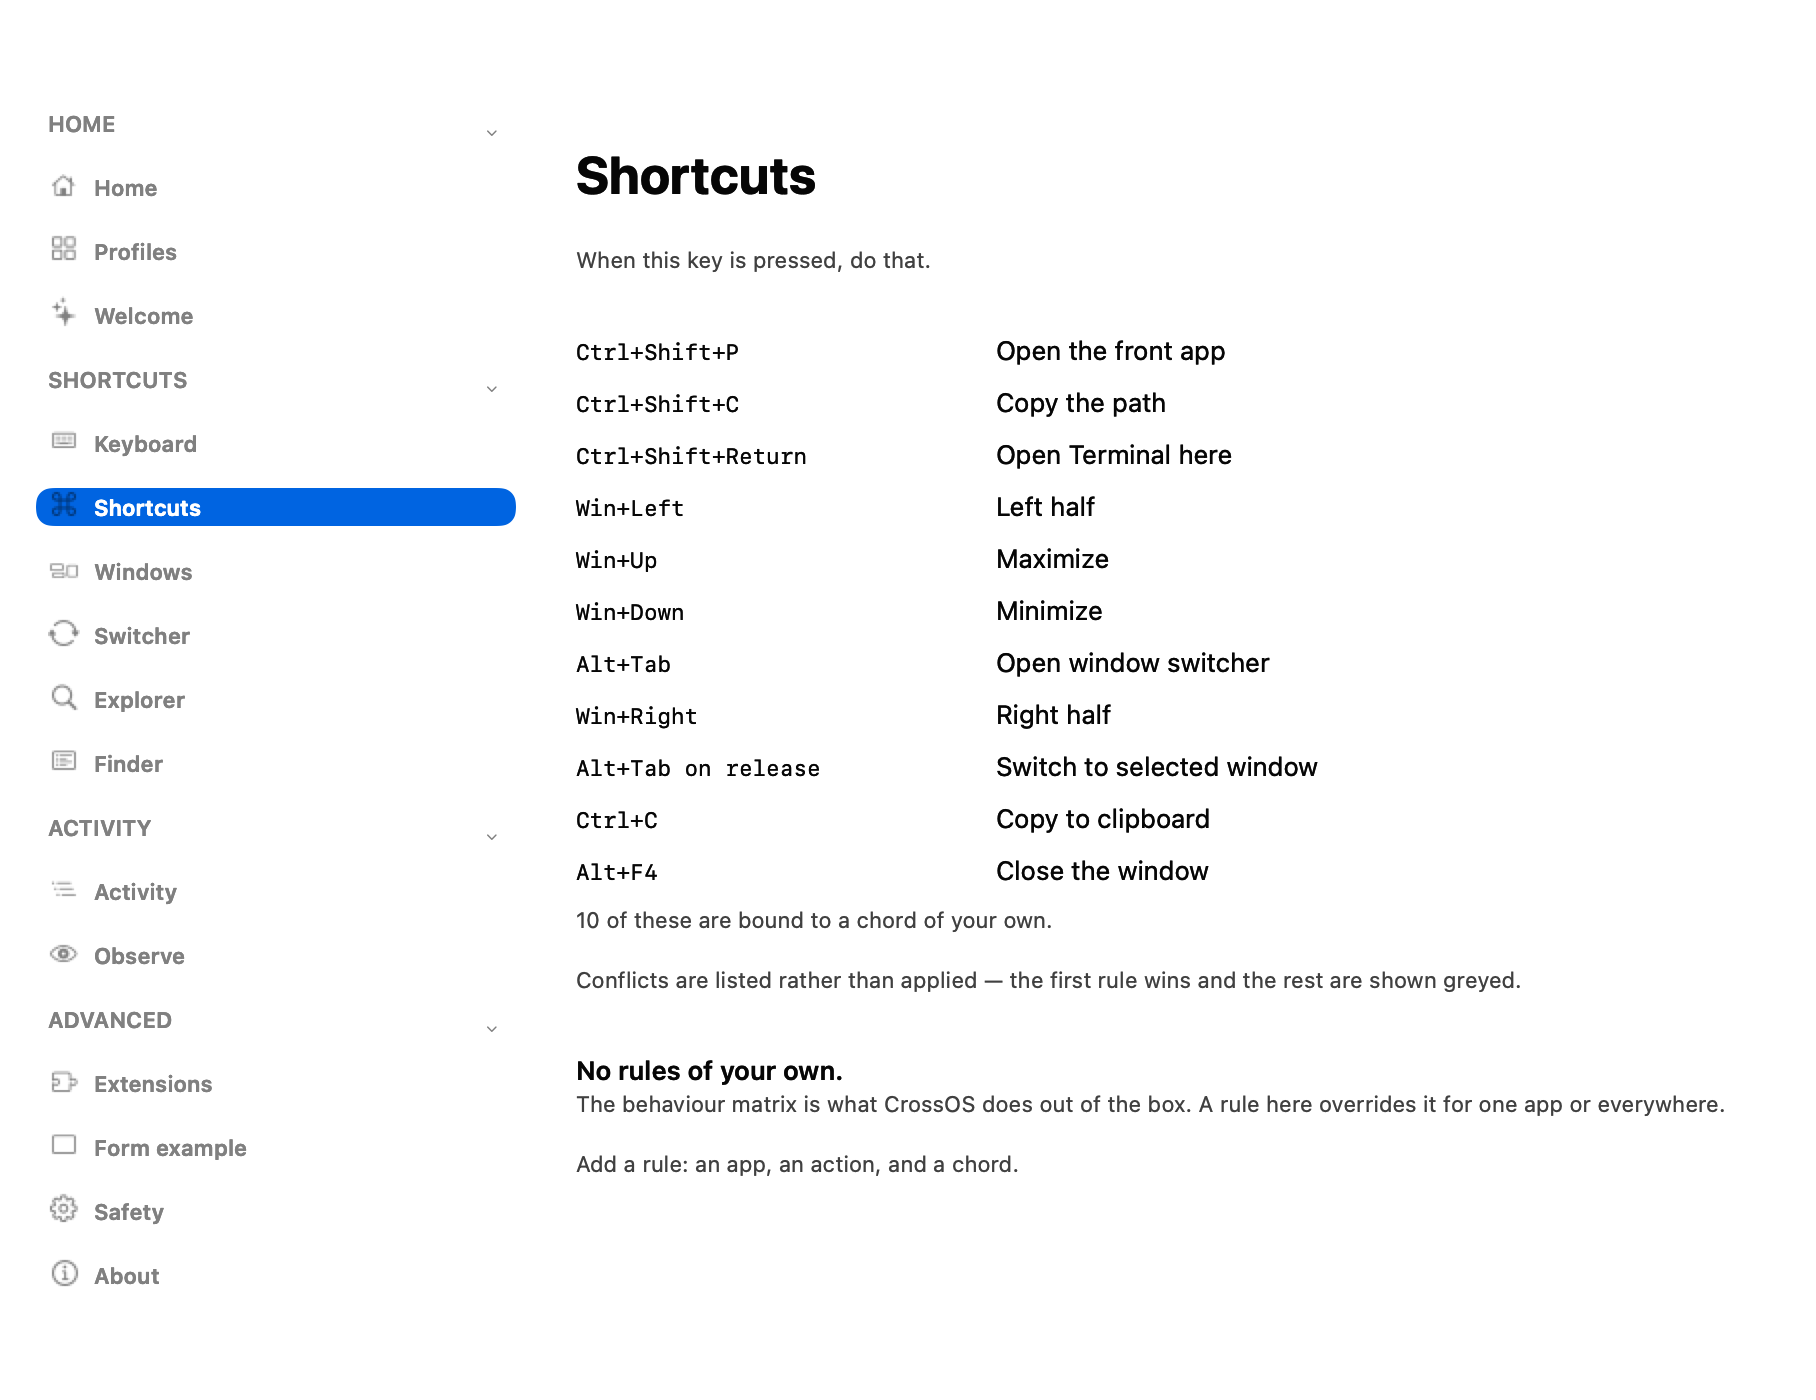
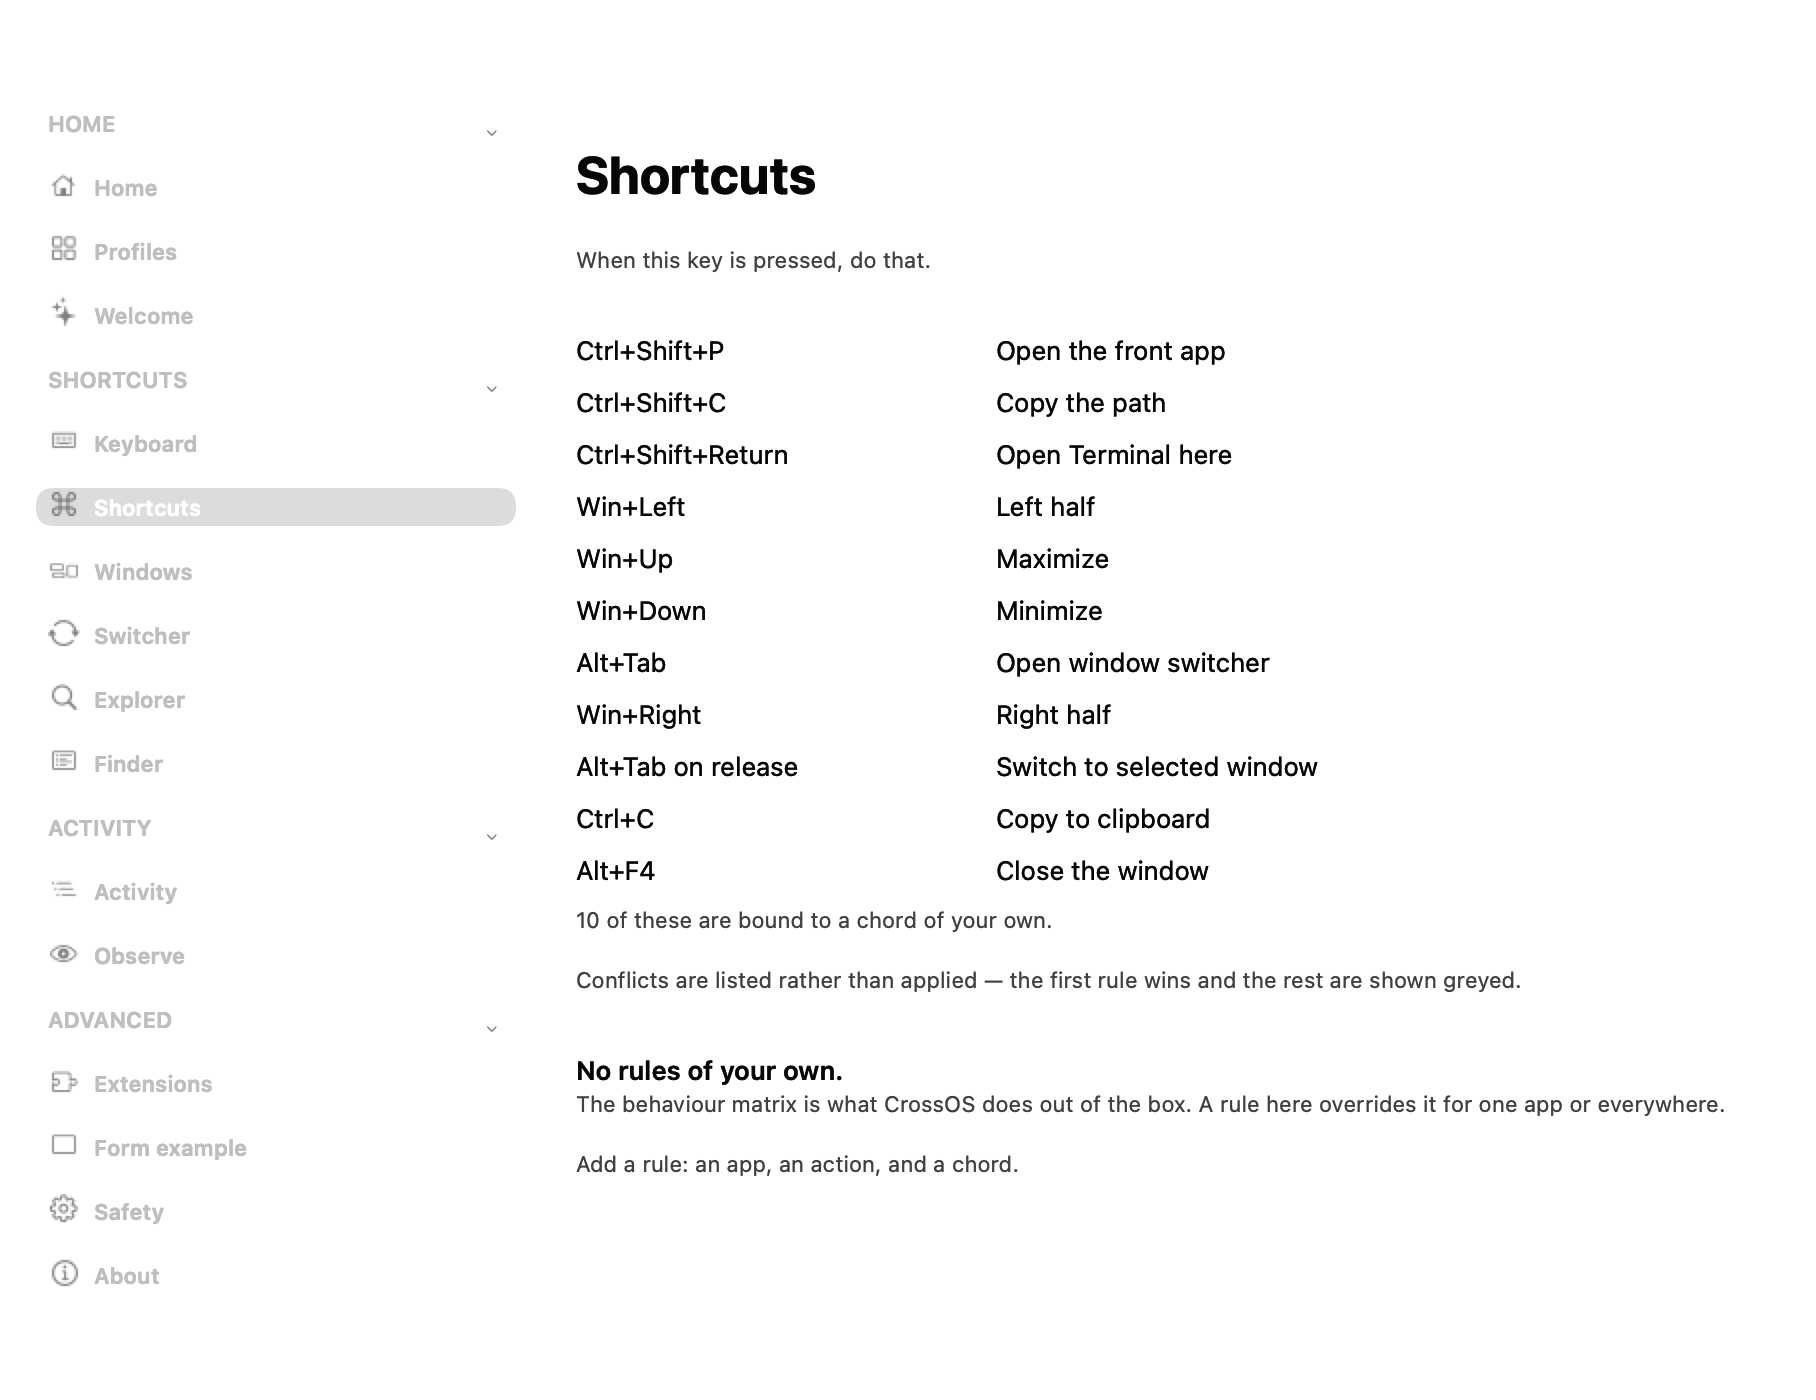
feat: chords stop being typed at
`Chord.format` returns ⌃⌥⇧ and ← — Apple's key symbols, not characters.
Four views drew them in `Typeface.mono`, and a monospace face is not the
face those glyphs are drawn for: they fall back, and the fallback reads as
typing rather than as a shortcut. The shortcut column was the one column
in the app whose text looked least like itself.

All four are the system face now, which is the face the symbols belong to
and is the face every macOS menu draws them in.

**The other four uses of mono are correct and were left alone**, because
they are machine text rather than symbols: the trial countdown, the config
path in the ownership audit, the raw schema JSON, and the version string. A
path in a monospace face is a path; a key symbol in one is a typo.

Verified on the tree: --audit 15 pages 0 fail; CoreTests 111;
--click-test passes.

diff --git a/macos/Sources/CrossOSApp/RemainingViews.swift b/macos/Sources/CrossOSApp/RemainingViews.swift
@@ -288,7 +288,10 @@ final class KeymapEditorView: CardControl {
 
         for row in rows {
             let chord = NSTextField(labelWithString: Chord.format(row.keys))
-            chord.font = Typeface.mono
+            // The SYSTEM face: `Chord.format` returns ⌃⌥⇧ and ← — Apple's
+            // key symbols, drawn for the system face and falling back to
+            // something that reads as typing in a monospace one.
+            chord.font = Typeface.body
             chord.textColor = row.enabled ? Palette.primaryInk : Palette.tertiaryInk
             let action = NSTextField(labelWithString: Humanize.phrase(row.action))
             action.font = Typeface.body
@@ -342,7 +345,10 @@ final class RuleBuilderView: CardControl {
         )
         for rule in userRules {
             let chord = NSTextField(labelWithString: Chord.format(rule.chord))
-            chord.font = Typeface.mono
+            // The SYSTEM face: `Chord.format` returns ⌃⌥⇧ and ← — Apple's
+            // key symbols, drawn for the system face and falling back to
+            // something that reads as typing in a monospace one.
+            chord.font = Typeface.body
             // The chord is a COLUMN, so every action starts at the same x.
             //
             // It took its own width, and the chords are not the same width:

diff --git a/macos/Sources/CrossOSApp/FinalViews.swift b/macos/Sources/CrossOSApp/FinalViews.swift
@@ -413,7 +413,13 @@ final class ShortcutListView: CardControl {
             // edge. `.left` inside the field as well, because a label aligns
             // naturally by default and centres a short chord back in the column.
             let chord = NSTextField(labelWithString: Chord.format(row.keys))
-            chord.font = Typeface.mono
+            // The SYSTEM face, not monospace, and this matters more than it
+            // looks: `Chord.format` returns ⌃⌥⇧ and ← — Apple's key symbols,
+            // not characters. The system face is the face those symbols are
+            // drawn for; in a monospace face they fall back to something that
+            // reads as typing, which is what the shortcut column looked like —
+            // the one column in the app where the text was least like itself.
+            chord.font = Typeface.body
             chord.alignment = .left
             chord.widthAnchor.constraint(equalToConstant: 190).isActive = true
             chord.setContentHuggingPriority(.required, for: .horizontal)
